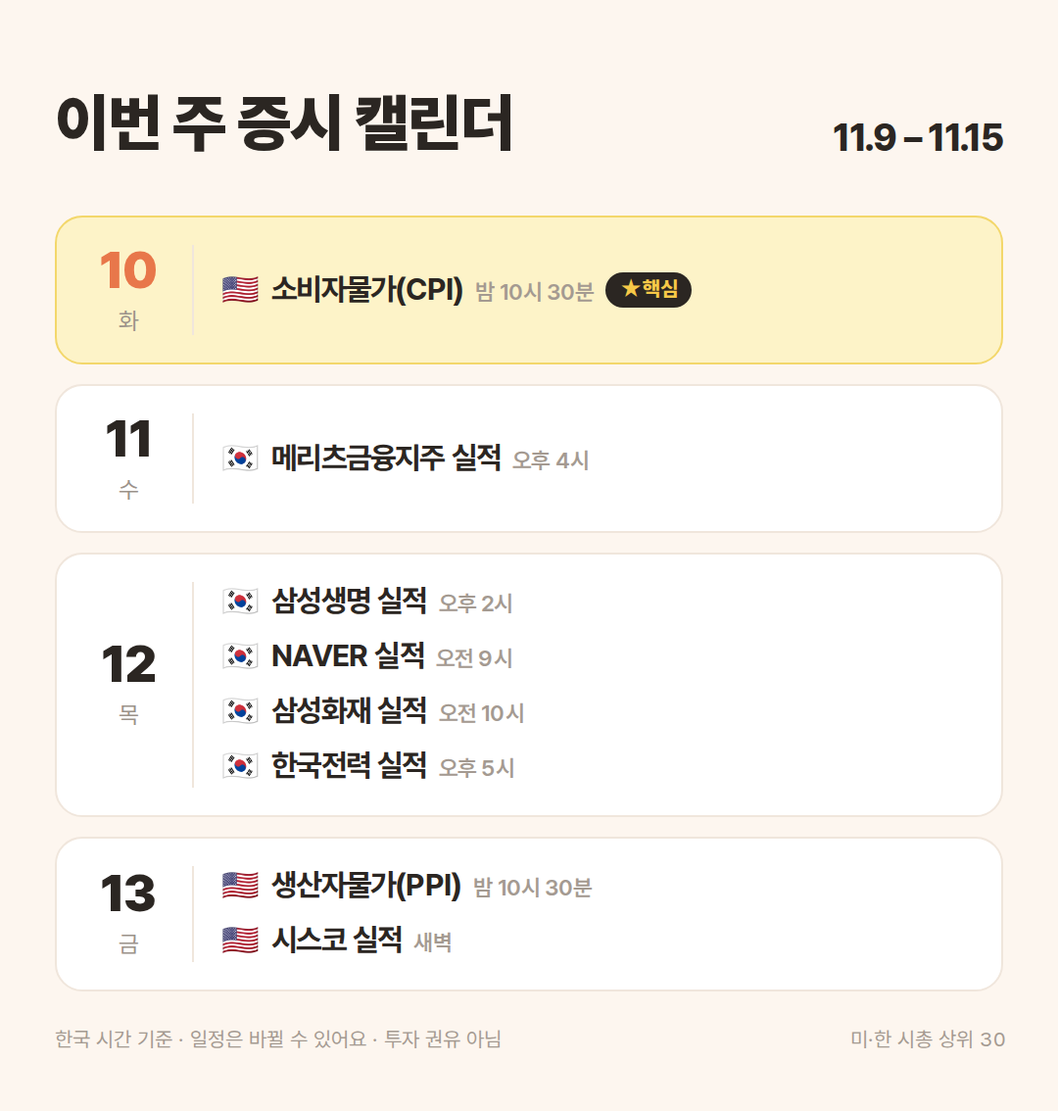
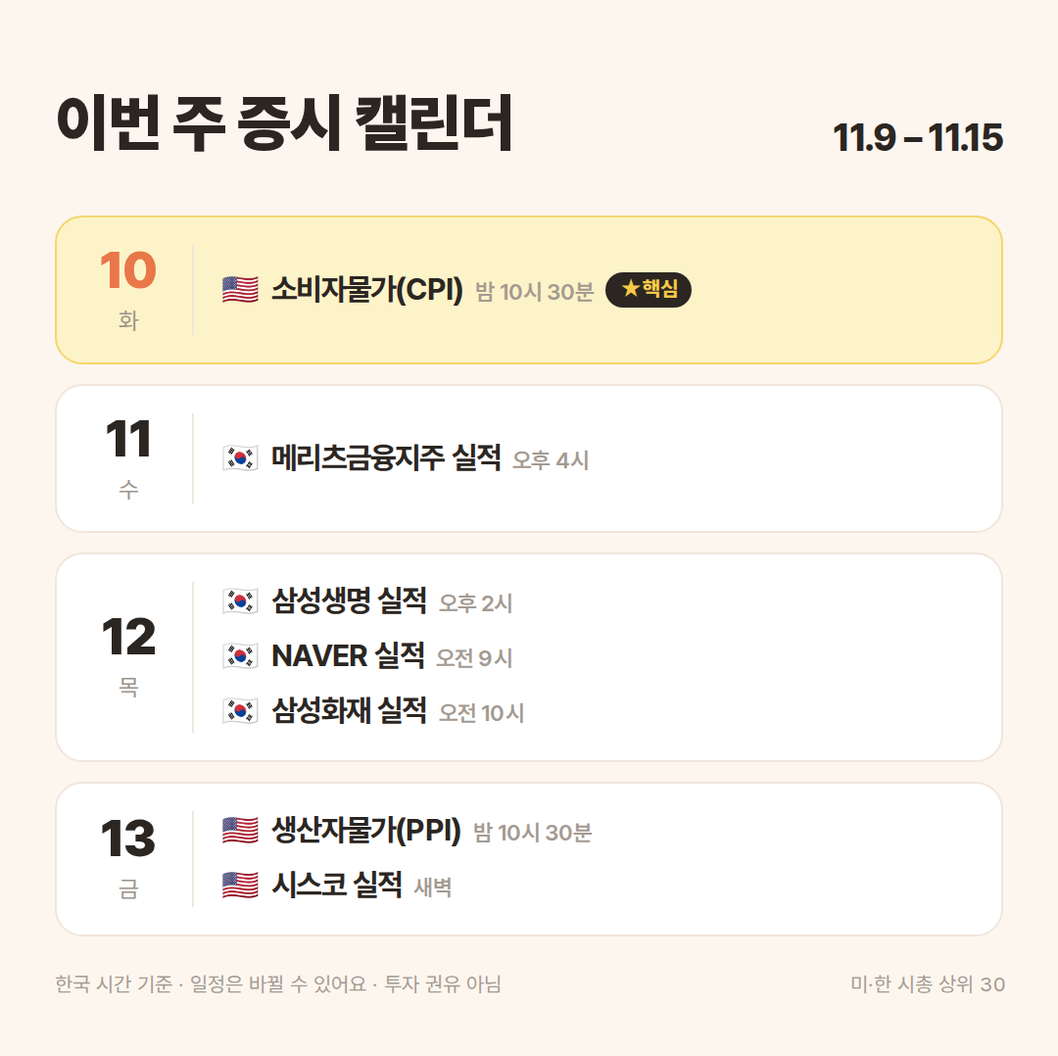
캘린더 갱신 2026-11-13

diff --git a/docs/2026-11-09/index.html b/docs/2026-11-09/index.html
@@ -46,16 +46,16 @@ tr.out{color:var(--sub)}
 </style></head><body>
 <div id="card">
 <div class="head"><h1>이번 주 증시 캘린더</h1><div class="range">11.9 – 11.15</div></div>
-<a class="card hot" href="#d2026-11-10"><div class="day"><div class="dn">10</div><div class="dw">화</div></div><div class="evs"><div class="ev"><span class="flag">🇺🇸</span><span class="ti">소비자물가(CPI)</span><span class="t">밤 10시 30분</span><span class="badge">★ 핵심</span></div></div></a><a class="card" href="#d2026-11-11"><div class="day"><div class="dn">11</div><div class="dw">수</div></div><div class="evs"><div class="ev"><span class="flag">🇰🇷</span><span class="ti">메리츠금융지주 실적</span><span class="t">오후 4시</span></div></div></a><a class="card" href="#d2026-11-12"><div class="day"><div class="dn">12</div><div class="dw">목</div></div><div class="evs"><div class="ev"><span class="flag">🇰🇷</span><span class="ti">삼성생명 실적</span><span class="t">오후 2시</span></div><div class="ev"><span class="flag">🇰🇷</span><span class="ti">NAVER 실적</span><span class="t">오전 9시</span></div><div class="ev"><span class="flag">🇰🇷</span><span class="ti">삼성화재 실적</span><span class="t">오전 10시</span></div><div class="ev"><span class="flag">🇰🇷</span><span class="ti">한국전력 실적</span><span class="t">오후 5시</span></div></div></a><a class="card" href="#d2026-11-13"><div class="day"><div class="dn">13</div><div class="dw">금</div></div><div class="evs"><div class="ev"><span class="flag">🇺🇸</span><span class="ti">생산자물가(PPI)</span><span class="t">밤 10시 30분</span></div><div class="ev"><span class="flag">🇺🇸</span><span class="ti">시스코 실적</span><span class="t">새벽</span></div></div></a>
+<a class="card hot" href="#d2026-11-10"><div class="day"><div class="dn">10</div><div class="dw">화</div></div><div class="evs"><div class="ev"><span class="flag">🇺🇸</span><span class="ti">소비자물가(CPI)</span><span class="t">밤 10시 30분</span><span class="badge">★ 핵심</span></div></div></a><a class="card" href="#d2026-11-11"><div class="day"><div class="dn">11</div><div class="dw">수</div></div><div class="evs"><div class="ev"><span class="flag">🇰🇷</span><span class="ti">메리츠금융지주 실적</span><span class="t">오후 4시</span></div></div></a><a class="card" href="#d2026-11-12"><div class="day"><div class="dn">12</div><div class="dw">목</div></div><div class="evs"><div class="ev"><span class="flag">🇰🇷</span><span class="ti">삼성생명 실적</span><span class="t">오후 2시</span></div><div class="ev"><span class="flag">🇰🇷</span><span class="ti">NAVER 실적</span><span class="t">오전 9시</span></div><div class="ev"><span class="flag">🇰🇷</span><span class="ti">삼성화재 실적</span><span class="t">오전 10시</span></div></div></a><a class="card" href="#d2026-11-13"><div class="day"><div class="dn">13</div><div class="dw">금</div></div><div class="evs"><div class="ev"><span class="flag">🇺🇸</span><span class="ti">생산자물가(PPI)</span><span class="t">밤 10시 30분</span></div><div class="ev"><span class="flag">🇺🇸</span><span class="ti">시스코 실적</span><span class="t">새벽</span></div></div></a>
 <div class="foot"><span>한국 시간 기준 · 일정은 바뀔 수 있어요 · 투자 권유 아님</span><span>미·한 시총 상위 30</span></div>
 </div>
 <main>
-<section id="d2026-11-10"><h2>11월 10일 (화)</h2><div class="row"><span class="flag">🇺🇸</span><div class="rb"><div class="rt">소비자물가(CPI) <span class="t">밤 10시 30분</span> <span class="badge">★ 핵심</span></div><div class="rd">미 동부 8:30 발표 · Consumer Price Index</div></div><a class="src" href="https://fred.stlouisfed.org/release?rid=10" target="_blank" rel="noopener">원문 ↗</a></div></section><section id="d2026-11-11"><h2>11월 11일 (수)</h2><div class="row"><span class="flag">🇰🇷</span><div class="rb"><div class="rt">메리츠금융지주 실적 <span class="t">오후 4시</span></div><div class="rd">2026년 3분기 경영실적 등 발표 · 웹캐스트 및 컨퍼런스콜을 통한 실적발표 및 질의응답</div><div class="res">✅ 결과 · 잠정실적 공시 · 연결재무제표기준영업(잠정)실적(공정공시)</div></div><a class="src" href="https://dart.fss.or.kr/dsaf001/main.do?rcpNo=20261022800519" target="_blank" rel="noopener">원문 ↗</a></div></section><section id="d2026-11-12"><h2>11월 12일 (목)</h2><div class="row"><span class="flag">🇰🇷</span><div class="rb"><div class="rt">삼성생명 실적 <span class="t">오후 2시</span></div><div class="rd">2026 회계연도 3분기 경영실적 발표 · 컨퍼런스 콜</div></div><a class="src" href="https://dart.fss.or.kr/dsaf001/main.do?rcpNo=20261028800567" target="_blank" rel="noopener">원문 ↗</a></div><div class="row"><span class="flag">🇰🇷</span><div class="rb"><div class="rt">NAVER 실적 <span class="t">오전 9시</span></div><div class="rd">2026년 3분기 실적발표 · 컨퍼런스콜(순차통역)</div></div><a class="src" href="https://dart.fss.or.kr/dsaf001/main.do?rcpNo=20261020800455" target="_blank" rel="noopener">원문 ↗</a></div><div class="row"><span class="flag">🇰🇷</span><div class="rb"><div class="rt">삼성화재 실적 <span class="t">오전 10시</span></div><div class="rd">2026 회계연도 3분기 경영실적 발표 · Conference Call</div></div><a class="src" href="https://dart.fss.or.kr/dsaf001/main.do?rcpNo=20261030801167" target="_blank" rel="noopener">원문 ↗</a></div><div class="row"><span class="flag">🇰🇷</span><div class="rb"><div class="rt">한국전력 실적 <span class="t">오후 5시</span></div><div class="rd">2026년 3분기 결산실적 발표 · Conference call, 영어 순차통역 병행</div></div><a class="src" href="https://dart.fss.or.kr/dsaf001/main.do?rcpNo=20261109800307" target="_blank" rel="noopener">원문 ↗</a></div></section><section id="d2026-11-13"><h2>11월 13일 (금)</h2><div class="row"><span class="flag">🇺🇸</span><div class="rb"><div class="rt">생산자물가(PPI) <span class="t">밤 10시 30분</span></div><div class="rd">미 동부 8:30 발표 · Producer Price Index</div></div><a class="src" href="https://fred.stlouisfed.org/release?rid=46" target="_blank" rel="noopener">원문 ↗</a></div><div class="row"><span class="flag">🇺🇸</span><div class="rb"><div class="rt">시스코 실적 <span class="t">새벽</span></div><div class="rd">미국 장 마감 후 · EPS 예상 $1.35 · 매출 예상 $18.5B</div></div><a class="src" href="https://www.nasdaq.com/market-activity/stocks/csco/earnings" target="_blank" rel="noopener">원문 ↗</a></div></section>
+<section id="d2026-11-10"><h2>11월 10일 (화)</h2><div class="row"><span class="flag">🇺🇸</span><div class="rb"><div class="rt">소비자물가(CPI) <span class="t">밤 10시 30분</span> <span class="badge">★ 핵심</span></div><div class="rd">미 동부 8:30 발표 · Consumer Price Index</div></div><a class="src" href="https://fred.stlouisfed.org/release?rid=10" target="_blank" rel="noopener">원문 ↗</a></div></section><section id="d2026-11-11"><h2>11월 11일 (수)</h2><div class="row"><span class="flag">🇰🇷</span><div class="rb"><div class="rt">메리츠금융지주 실적 <span class="t">오후 4시</span></div><div class="rd">2026년 3분기 경영실적 등 발표 · 웹캐스트 및 컨퍼런스콜을 통한 실적발표 및 질의응답</div><div class="res">✅ 결과 · 잠정실적 공시 · 연결재무제표기준영업(잠정)실적(공정공시)</div></div><a class="src" href="https://dart.fss.or.kr/dsaf001/main.do?rcpNo=20261022800519" target="_blank" rel="noopener">원문 ↗</a></div></section><section id="d2026-11-12"><h2>11월 12일 (목)</h2><div class="row"><span class="flag">🇰🇷</span><div class="rb"><div class="rt">삼성생명 실적 <span class="t">오후 2시</span></div><div class="rd">2026 회계연도 3분기 경영실적 발표 · 컨퍼런스 콜</div></div><a class="src" href="https://dart.fss.or.kr/dsaf001/main.do?rcpNo=20261028800567" target="_blank" rel="noopener">원문 ↗</a></div><div class="row"><span class="flag">🇰🇷</span><div class="rb"><div class="rt">NAVER 실적 <span class="t">오전 9시</span></div><div class="rd">2026년 3분기 실적발표 · 컨퍼런스콜(순차통역)</div></div><a class="src" href="https://dart.fss.or.kr/dsaf001/main.do?rcpNo=20261020800455" target="_blank" rel="noopener">원문 ↗</a></div><div class="row"><span class="flag">🇰🇷</span><div class="rb"><div class="rt">삼성화재 실적 <span class="t">오전 10시</span></div><div class="rd">2026 회계연도 3분기 경영실적 발표 · Conference Call</div></div><a class="src" href="https://dart.fss.or.kr/dsaf001/main.do?rcpNo=20261030801167" target="_blank" rel="noopener">원문 ↗</a></div></section><section id="d2026-11-13"><h2>11월 13일 (금)</h2><div class="row"><span class="flag">🇺🇸</span><div class="rb"><div class="rt">생산자물가(PPI) <span class="t">밤 10시 30분</span></div><div class="rd">미 동부 8:30 발표 · Producer Price Index</div></div><a class="src" href="https://fred.stlouisfed.org/release?rid=46" target="_blank" rel="noopener">원문 ↗</a></div><div class="row"><span class="flag">🇺🇸</span><div class="rb"><div class="rt">시스코 실적 <span class="t">새벽</span></div><div class="rd">미국 장 마감 후 · EPS 예상 $1.35 · 매출 예상 $18.5B</div></div><a class="src" href="https://www.nasdaq.com/market-activity/stocks/csco/earnings" target="_blank" rel="noopener">원문 ↗</a></div></section>
 <h3>백데이터</h3>
-<details><summary>수집 현황</summary><div class="tw"><table><tr><th>소스</th><th>상태</th><th>건수</th><th>오류</th></tr><tr><td>미국 시총 순위 (Finnhub)</td><td>✅</td><td>63</td><td class="err"></td></tr><tr><td>한국 시총 순위 (네이버)</td><td>✅</td><td>30</td><td class="err"></td></tr><tr><td>미국 실적 (Finnhub)</td><td>✅</td><td>2</td><td class="err"></td></tr><tr><td>한국 실적 (DART)</td><td>✅</td><td>5</td><td class="err"></td></tr><tr><td>미국 경제지표 (FRED)</td><td>✅</td><td>2</td><td class="err"></td></tr><tr><td>한국 수출입 (규칙)</td><td>✅</td><td>0</td><td class="err"></td></tr><tr><td>고정 일정 (events.json)</td><td>✅</td><td>0</td><td class="err"></td></tr></table></div></details>
-<details><summary>기준에서 빠진 실적 일정 (1건)</summary><div class="tw"><table><tr><th>날짜</th><th>일정</th><th>이유</th></tr><tr><td>11-13</td><td>어플라이드머티어리얼즈 실적</td><td>미국 시총 34위</td></tr></table></div></details>
-<details><summary>미국 시총 순위 (후보 63개 중 상위 30)</summary><div class="tw"><table><tr><th>#</th><th>종목</th><th>티커</th><th>시총</th></tr><tr class="in"><td>1</td><td>애플</td><td>AAPL</td><td>$5,168B</td></tr><tr class="in"><td>2</td><td>엔비디아</td><td>NVDA</td><td>$4,187B</td></tr><tr class="in"><td>3</td><td>마이크로소프트</td><td>MSFT</td><td>$3,870B</td></tr><tr class="in"><td>4</td><td>알파벳</td><td>GOOGL</td><td>$3,608B</td></tr><tr class="in"><td>5</td><td>아마존</td><td>AMZN</td><td>$2,878B</td></tr><tr class="in"><td>6</td><td>TSMC</td><td>TSM</td><td>$2,144B</td></tr><tr class="in"><td>7</td><td>브로드컴</td><td>AVGO</td><td>$1,648B</td></tr><tr class="in"><td>8</td><td>메타</td><td>META</td><td>$1,607B</td></tr><tr class="in"><td>9</td><td>테슬라</td><td>TSLA</td><td>$1,501B</td></tr><tr class="in"><td>10</td><td>일라이릴리</td><td>LLY</td><td>$1,352B</td></tr><tr class="in"><td>11</td><td>버크셔해서웨이</td><td>BRK.B</td><td>$1,262B</td></tr><tr class="in"><td>12</td><td>월마트</td><td>WMT</td><td>$980B</td></tr><tr class="in"><td>13</td><td>마이크론</td><td>MU</td><td>$918B</td></tr><tr class="in"><td>14</td><td>JP모건</td><td>JPM</td><td>$912B</td></tr><tr class="in"><td>15</td><td>AMD</td><td>AMD</td><td>$907B</td></tr><tr class="in"><td>16</td><td>비자</td><td>V</td><td>$769B</td></tr><tr class="in"><td>17</td><td>엑슨모빌</td><td>XOM</td><td>$764B</td></tr><tr class="in"><td>18</td><td>존슨앤드존슨</td><td>JNJ</td><td>$675B</td></tr><tr class="in"><td>19</td><td>ASML</td><td>ASML</td><td>$596B</td></tr><tr class="in"><td>20</td><td>마스터카드</td><td>MA</td><td>$576B</td></tr><tr class="in"><td>21</td><td>애브비</td><td>ABBV</td><td>$521B</td></tr><tr class="in"><td>22</td><td>코스트코</td><td>COST</td><td>$482B</td></tr><tr class="in"><td>23</td><td>코카콜라</td><td>KO</td><td>$420B</td></tr><tr class="in"><td>24</td><td>셰브론</td><td>CVX</td><td>$419B</td></tr><tr class="in"><td>25</td><td>팔란티어</td><td>PLTR</td><td>$415B</td></tr><tr class="in"><td>26</td><td>시스코</td><td>CSCO</td><td>$397B</td></tr><tr class="in"><td>27</td><td>P&amp;G</td><td>PG</td><td>$389B</td></tr><tr class="in"><td>28</td><td>오라클</td><td>ORCL</td><td>$388B</td></tr><tr class="in"><td>29</td><td>유나이티드헬스</td><td>UNH</td><td>$365B</td></tr><tr class="in"><td>30</td><td>GE에어로스페이스</td><td>GE</td><td>$354B</td></tr><tr class="out"><td>31</td><td>홈디포</td><td>HD</td><td>$350B</td></tr><tr class="out"><td>32</td><td>뱅크오브아메리카</td><td>BAC</td><td>$350B</td></tr><tr class="out"><td>33</td><td>인텔</td><td>INTC</td><td>$332B</td></tr><tr class="out"><td>34</td><td>어플라이드머티어리얼즈</td><td>AMAT</td><td>$314B</td></tr><tr class="out"><td>35</td><td>필립모리스</td><td>PM</td><td>$306B</td></tr><tr class="out"><td>36</td><td>모건스탠리</td><td>MS</td><td>$298B</td></tr><tr class="out"><td>37</td><td>램리서치</td><td>LRCX</td><td>$295B</td></tr><tr class="out"><td>38</td><td>캐터필러</td><td>CAT</td><td>$275B</td></tr><tr class="out"><td>39</td><td>RTX</td><td>RTX</td><td>$272B</td></tr><tr class="out"><td>40</td><td>골드만삭스</td><td>GS</td><td>$267B</td></tr><tr class="out"><td>41</td><td>넷플릭스</td><td>NFLX</td><td>$265B</td></tr><tr class="out"><td>42</td><td>웰스파고</td><td>WFC</td><td>$250B</td></tr><tr class="out"><td>43</td><td>아리스타</td><td>ANET</td><td>$248B</td></tr><tr class="out"><td>44</td><td>린데</td><td>LIN</td><td>$242B</td></tr><tr class="out"><td>45</td><td>IBM</td><td>IBM</td><td>$235B</td></tr><tr class="out"><td>46</td><td>아메리칸익스프레스</td><td>AXP</td><td>$217B</td></tr><tr class="out"><td>47</td><td>KLA</td><td>KLAC</td><td>$210B</td></tr><tr class="out"><td>48</td><td>디즈니</td><td>DIS</td><td>$207B</td></tr><tr class="out"><td>49</td><td>펩시코</td><td>PEP</td><td>$196B</td></tr><tr class="out"><td>50</td><td>맥도날드</td><td>MCD</td><td>$194B</td></tr><tr class="out"><td>51</td><td>애보트</td><td>ABT</td><td>$189B</td></tr><tr class="out"><td>52</td><td>퀄컴</td><td>QCOM</td><td>$189B</td></tr><tr class="out"><td>53</td><td>T모바일</td><td>TMUS</td><td>$182B</td></tr><tr class="out"><td>54</td><td>세일즈포스</td><td>CRM</td><td>$179B</td></tr><tr class="out"><td>55</td><td>찰스슈왑</td><td>SCHW</td><td>$160B</td></tr><tr class="out"><td>56</td><td>인튜이티브서지컬</td><td>ISRG</td><td>$156B</td></tr><tr class="out"><td>57</td><td>블랙스톤</td><td>BX</td><td>$151B</td></tr><tr class="out"><td>58</td><td>AT&amp;T</td><td>T</td><td>$150B</td></tr><tr class="out"><td>59</td><td>우버</td><td>UBER</td><td>$136B</td></tr><tr class="out"><td>60</td><td>앱러빈</td><td>APP</td><td>$134B</td></tr><tr class="out"><td>61</td><td>부킹홀딩스</td><td>BKNG</td><td>$119B</td></tr><tr class="out"><td>62</td><td>서비스나우</td><td>NOW</td><td>$107B</td></tr><tr class="out"><td>63</td><td>인튜이트</td><td>INTU</td><td>$92B</td></tr></table></div></details>
-<details><summary>한국 시총 상위 30 (보통주)</summary><div class="tw"><table><tr><th>#</th><th>종목</th><th>시장</th><th>시총</th></tr><tr class="in"><td>1</td><td>삼성전자</td><td>KOSPI</td><td>1,245.3조</td></tr><tr class="in"><td>2</td><td>SK하이닉스</td><td>KOSPI</td><td>954.0조</td></tr><tr class="in"><td>3</td><td>SK스퀘어</td><td>KOSPI</td><td>106.7조</td></tr><tr class="in"><td>4</td><td>LG에너지솔루션</td><td>KOSPI</td><td>78.0조</td></tr><tr class="in"><td>5</td><td>삼성전기</td><td>KOSPI</td><td>70.1조</td></tr><tr class="in"><td>6</td><td>삼성바이오로직스</td><td>KOSPI</td><td>65.7조</td></tr><tr class="in"><td>7</td><td>현대차</td><td>KOSPI</td><td>54.8조</td></tr><tr class="in"><td>8</td><td>KB금융</td><td>KOSPI</td><td>53.9조</td></tr><tr class="in"><td>9</td><td>삼성생명</td><td>KOSPI</td><td>51.6조</td></tr><tr class="in"><td>10</td><td>셀트리온</td><td>KOSPI</td><td>48.0조</td></tr><tr class="in"><td>11</td><td>삼성물산</td><td>KOSPI</td><td>47.3조</td></tr><tr class="in"><td>12</td><td>신한지주</td><td>KOSPI</td><td>40.0조</td></tr><tr class="in"><td>13</td><td>삼성SDI</td><td>KOSPI</td><td>39.0조</td></tr><tr class="in"><td>14</td><td>SK</td><td>KOSPI</td><td>37.0조</td></tr><tr class="in"><td>15</td><td>기아</td><td>KOSPI</td><td>36.4조</td></tr><tr class="in"><td>16</td><td>한화에어로스페이스</td><td>KOSPI</td><td>34.4조</td></tr><tr class="in"><td>17</td><td>하나금융지주</td><td>KOSPI</td><td>32.3조</td></tr><tr class="in"><td>18</td><td>현대모비스</td><td>KOSPI</td><td>31.8조</td></tr><tr class="in"><td>19</td><td>두산에너빌리티</td><td>KOSPI</td><td>30.6조</td></tr><tr class="in"><td>20</td><td>HD현대중공업</td><td>KOSPI</td><td>28.5조</td></tr><tr class="in"><td>21</td><td>NAVER</td><td>KOSPI</td><td>27.9조</td></tr><tr class="in"><td>22</td><td>삼성화재</td><td>KOSPI</td><td>24.0조</td></tr><tr class="in"><td>23</td><td>우리금융지주</td><td>KOSPI</td><td>23.3조</td></tr><tr class="in"><td>24</td><td>LG전자</td><td>KOSPI</td><td>22.8조</td></tr><tr class="in"><td>25</td><td>POSCO홀딩스</td><td>KOSPI</td><td>21.9조</td></tr><tr class="in"><td>26</td><td>한국전력</td><td>KOSPI</td><td>19.6조</td></tr><tr class="in"><td>27</td><td>LS ELECTRIC</td><td>KOSPI</td><td>19.2조</td></tr><tr class="in"><td>28</td><td>HMM</td><td>KOSPI</td><td>18.8조</td></tr><tr class="in"><td>29</td><td>고려아연</td><td>KOSPI</td><td>18.6조</td></tr><tr class="in"><td>30</td><td>메리츠금융지주</td><td>KOSPI</td><td>18.6조</td></tr></table></div></details>
-<div class="meta"><span>업데이트 2026-11-12 11:44 KST</span><span><a href="data.json">data.json</a> · <a href="../">지난 캘린더</a></span></div>
+<details><summary>수집 현황</summary><div class="tw"><table><tr><th>소스</th><th>상태</th><th>건수</th><th>오류</th></tr><tr><td>미국 시총 순위 (Finnhub)</td><td>✅</td><td>63</td><td class="err"></td></tr><tr><td>한국 시총 순위 (네이버)</td><td>✅</td><td>30</td><td class="err"></td></tr><tr><td>미국 실적 (Finnhub)</td><td>✅</td><td>2</td><td class="err"></td></tr><tr><td>한국 실적 (DART)</td><td>✅</td><td>4</td><td class="err"></td></tr><tr><td>미국 경제지표 (FRED)</td><td>✅</td><td>2</td><td class="err"></td></tr><tr><td>한국 수출입 (규칙)</td><td>✅</td><td>0</td><td class="err"></td></tr><tr><td>고정 일정 (events.json)</td><td>✅</td><td>0</td><td class="err"></td></tr></table></div></details>
+<details><summary>기준에서 빠진 실적 일정 (1건)</summary><div class="tw"><table><tr><th>날짜</th><th>일정</th><th>이유</th></tr><tr><td>11-13</td><td>어플라이드머티어리얼즈 실적</td><td>미국 시총 35위</td></tr></table></div></details>
+<details><summary>미국 시총 순위 (후보 63개 중 상위 30)</summary><div class="tw"><table><tr><th>#</th><th>종목</th><th>티커</th><th>시총</th></tr><tr class="in"><td>1</td><td>애플</td><td>AAPL</td><td>$5,157B</td></tr><tr class="in"><td>2</td><td>엔비디아</td><td>NVDA</td><td>$4,005B</td></tr><tr class="in"><td>3</td><td>마이크로소프트</td><td>MSFT</td><td>$3,884B</td></tr><tr class="in"><td>4</td><td>알파벳</td><td>GOOGL</td><td>$3,672B</td></tr><tr class="in"><td>5</td><td>아마존</td><td>AMZN</td><td>$2,892B</td></tr><tr class="in"><td>6</td><td>TSMC</td><td>TSM</td><td>$2,103B</td></tr><tr class="in"><td>7</td><td>브로드컴</td><td>AVGO</td><td>$1,739B</td></tr><tr class="in"><td>8</td><td>메타</td><td>META</td><td>$1,594B</td></tr><tr class="in"><td>9</td><td>테슬라</td><td>TSLA</td><td>$1,501B</td></tr><tr class="in"><td>10</td><td>일라이릴리</td><td>LLY</td><td>$1,343B</td></tr><tr class="in"><td>11</td><td>버크셔해서웨이</td><td>BRK.B</td><td>$1,262B</td></tr><tr class="in"><td>12</td><td>월마트</td><td>WMT</td><td>$980B</td></tr><tr class="in"><td>13</td><td>AMD</td><td>AMD</td><td>$960B</td></tr><tr class="in"><td>14</td><td>JP모건</td><td>JPM</td><td>$910B</td></tr><tr class="in"><td>15</td><td>마이크론</td><td>MU</td><td>$903B</td></tr><tr class="in"><td>16</td><td>비자</td><td>V</td><td>$769B</td></tr><tr class="in"><td>17</td><td>엑슨모빌</td><td>XOM</td><td>$764B</td></tr><tr class="in"><td>18</td><td>존슨앤드존슨</td><td>JNJ</td><td>$682B</td></tr><tr class="in"><td>19</td><td>ASML</td><td>ASML</td><td>$581B</td></tr><tr class="in"><td>20</td><td>마스터카드</td><td>MA</td><td>$568B</td></tr><tr class="in"><td>21</td><td>애브비</td><td>ABBV</td><td>$520B</td></tr><tr class="in"><td>22</td><td>코스트코</td><td>COST</td><td>$484B</td></tr><tr class="in"><td>23</td><td>셰브론</td><td>CVX</td><td>$425B</td></tr><tr class="in"><td>24</td><td>코카콜라</td><td>KO</td><td>$419B</td></tr><tr class="in"><td>25</td><td>팔란티어</td><td>PLTR</td><td>$413B</td></tr><tr class="in"><td>26</td><td>시스코</td><td>CSCO</td><td>$402B</td></tr><tr class="in"><td>27</td><td>P&amp;G</td><td>PG</td><td>$390B</td></tr><tr class="in"><td>28</td><td>오라클</td><td>ORCL</td><td>$384B</td></tr><tr class="in"><td>29</td><td>유나이티드헬스</td><td>UNH</td><td>$365B</td></tr><tr class="in"><td>30</td><td>뱅크오브아메리카</td><td>BAC</td><td>$348B</td></tr><tr class="out"><td>31</td><td>홈디포</td><td>HD</td><td>$348B</td></tr><tr class="out"><td>32</td><td>GE에어로스페이스</td><td>GE</td><td>$342B</td></tr><tr class="out"><td>33</td><td>인텔</td><td>INTC</td><td>$325B</td></tr><tr class="out"><td>34</td><td>필립모리스</td><td>PM</td><td>$306B</td></tr><tr class="out"><td>35</td><td>어플라이드머티어리얼즈</td><td>AMAT</td><td>$302B</td></tr><tr class="out"><td>36</td><td>모건스탠리</td><td>MS</td><td>$296B</td></tr><tr class="out"><td>37</td><td>램리서치</td><td>LRCX</td><td>$292B</td></tr><tr class="out"><td>38</td><td>캐터필러</td><td>CAT</td><td>$277B</td></tr><tr class="out"><td>39</td><td>RTX</td><td>RTX</td><td>$268B</td></tr><tr class="out"><td>40</td><td>골드만삭스</td><td>GS</td><td>$264B</td></tr><tr class="out"><td>41</td><td>아리스타</td><td>ANET</td><td>$261B</td></tr><tr class="out"><td>42</td><td>넷플릭스</td><td>NFLX</td><td>$257B</td></tr><tr class="out"><td>43</td><td>웰스파고</td><td>WFC</td><td>$250B</td></tr><tr class="out"><td>44</td><td>린데</td><td>LIN</td><td>$240B</td></tr><tr class="out"><td>45</td><td>IBM</td><td>IBM</td><td>$231B</td></tr><tr class="out"><td>46</td><td>아메리칸익스프레스</td><td>AXP</td><td>$213B</td></tr><tr class="out"><td>47</td><td>KLA</td><td>KLAC</td><td>$205B</td></tr><tr class="out"><td>48</td><td>디즈니</td><td>DIS</td><td>$204B</td></tr><tr class="out"><td>49</td><td>펩시코</td><td>PEP</td><td>$194B</td></tr><tr class="out"><td>50</td><td>맥도날드</td><td>MCD</td><td>$193B</td></tr><tr class="out"><td>51</td><td>퀄컴</td><td>QCOM</td><td>$190B</td></tr><tr class="out"><td>52</td><td>애보트</td><td>ABT</td><td>$186B</td></tr><tr class="out"><td>53</td><td>T모바일</td><td>TMUS</td><td>$181B</td></tr><tr class="out"><td>54</td><td>세일즈포스</td><td>CRM</td><td>$179B</td></tr><tr class="out"><td>55</td><td>찰스슈왑</td><td>SCHW</td><td>$158B</td></tr><tr class="out"><td>56</td><td>인튜이티브서지컬</td><td>ISRG</td><td>$152B</td></tr><tr class="out"><td>57</td><td>AT&amp;T</td><td>T</td><td>$149B</td></tr><tr class="out"><td>58</td><td>블랙스톤</td><td>BX</td><td>$146B</td></tr><tr class="out"><td>59</td><td>우버</td><td>UBER</td><td>$136B</td></tr><tr class="out"><td>60</td><td>앱러빈</td><td>APP</td><td>$130B</td></tr><tr class="out"><td>61</td><td>부킹홀딩스</td><td>BKNG</td><td>$120B</td></tr><tr class="out"><td>62</td><td>서비스나우</td><td>NOW</td><td>$104B</td></tr><tr class="out"><td>63</td><td>인튜이트</td><td>INTU</td><td>$91B</td></tr></table></div></details>
+<details><summary>한국 시총 상위 30 (보통주)</summary><div class="tw"><table><tr><th>#</th><th>종목</th><th>시장</th><th>시총</th></tr><tr class="in"><td>1</td><td>삼성전자</td><td>KOSPI</td><td>1,239.4조</td></tr><tr class="in"><td>2</td><td>SK하이닉스</td><td>KOSPI</td><td>927.0조</td></tr><tr class="in"><td>3</td><td>SK스퀘어</td><td>KOSPI</td><td>102.2조</td></tr><tr class="in"><td>4</td><td>LG에너지솔루션</td><td>KOSPI</td><td>77.1조</td></tr><tr class="in"><td>5</td><td>삼성전기</td><td>KOSPI</td><td>66.6조</td></tr><tr class="in"><td>6</td><td>삼성바이오로직스</td><td>KOSPI</td><td>65.9조</td></tr><tr class="in"><td>7</td><td>KB금융</td><td>KOSPI</td><td>56.1조</td></tr><tr class="in"><td>8</td><td>현대차</td><td>KOSPI</td><td>56.1조</td></tr><tr class="in"><td>9</td><td>삼성생명</td><td>KOSPI</td><td>51.4조</td></tr><tr class="in"><td>10</td><td>셀트리온</td><td>KOSPI</td><td>49.5조</td></tr><tr class="in"><td>11</td><td>삼성물산</td><td>KOSPI</td><td>46.9조</td></tr><tr class="in"><td>12</td><td>신한지주</td><td>KOSPI</td><td>41.8조</td></tr><tr class="in"><td>13</td><td>삼성SDI</td><td>KOSPI</td><td>39.2조</td></tr><tr class="in"><td>14</td><td>SK</td><td>KOSPI</td><td>37.6조</td></tr><tr class="in"><td>15</td><td>기아</td><td>KOSPI</td><td>37.2조</td></tr><tr class="in"><td>16</td><td>하나금융지주</td><td>KOSPI</td><td>33.5조</td></tr><tr class="in"><td>17</td><td>한화에어로스페이스</td><td>KOSPI</td><td>33.3조</td></tr><tr class="in"><td>18</td><td>현대모비스</td><td>KOSPI</td><td>32.8조</td></tr><tr class="in"><td>19</td><td>두산에너빌리티</td><td>KOSPI</td><td>30.7조</td></tr><tr class="in"><td>20</td><td>HD현대중공업</td><td>KOSPI</td><td>29.2조</td></tr><tr class="in"><td>21</td><td>NAVER</td><td>KOSPI</td><td>27.6조</td></tr><tr class="in"><td>22</td><td>우리금융지주</td><td>KOSPI</td><td>23.9조</td></tr><tr class="in"><td>23</td><td>삼성화재</td><td>KOSPI</td><td>23.8조</td></tr><tr class="in"><td>24</td><td>LG전자</td><td>KOSPI</td><td>22.7조</td></tr><tr class="in"><td>25</td><td>POSCO홀딩스</td><td>KOSPI</td><td>22.1조</td></tr><tr class="in"><td>26</td><td>HMM</td><td>KOSPI</td><td>20.3조</td></tr><tr class="in"><td>27</td><td>메리츠금융지주</td><td>KOSPI</td><td>19.9조</td></tr><tr class="in"><td>28</td><td>LS ELECTRIC</td><td>KOSPI</td><td>19.0조</td></tr><tr class="in"><td>29</td><td>고려아연</td><td>KOSPI</td><td>18.9조</td></tr><tr class="in"><td>30</td><td>SK이노베이션</td><td>KOSPI</td><td>18.5조</td></tr></table></div></details>
+<div class="meta"><span>업데이트 2026-11-13 11:21 KST</span><span><a href="data.json">data.json</a> · <a href="../">지난 캘린더</a></span></div>
 </main>
 </body></html>

diff --git a/docs/index.html b/docs/index.html
@@ -3,4 +3,4 @@
 <link href="https://cdn.jsdelivr.net/gh/orioncactus/pretendard@v1.3.9/dist/web/static/pretendard.min.css" rel="stylesheet">
 <style>*{box-sizing:border-box;margin:0}body{background:#fdf6ef;color:#2b2622;font-family:Pretendard,-apple-system,sans-serif;max-width:720px;margin:0 auto;padding:40px 16px}
 h1{font-size:28px;font-weight:900;margin-bottom:20px}.w{display:flex;justify-content:space-between;background:#fff;border:1.5px solid #f0e6dc;border-radius:12px;padding:14px 16px;margin-bottom:8px;color:inherit;text-decoration:none}
-.w span{color:#a49a91;font-size:13px}</style></head><body><h1>주간 증시 캘린더</h1><a class="w" href="daily/"><b>📰 데일리 브리핑 모아보기</b><span>→</span></a><a class="w" href="2026-11-09/"><b>2026. 11.9 – 11.15</b><span>일정 8건</span></a><a class="w" href="2026-11-02/"><b>2026. 11.2 – 11.8</b><span>일정 8건</span></a><a class="w" href="2026-10-26/"><b>2026. 10.26 – 11.1</b><span>일정 26건</span></a><a class="w" href="2026-10-19/"><b>2026. 10.19 – 10.25</b><span>일정 10건</span></a></body></html>
+.w span{color:#a49a91;font-size:13px}</style></head><body><h1>주간 증시 캘린더</h1><a class="w" href="daily/"><b>📰 데일리 브리핑 모아보기</b><span>→</span></a><a class="w" href="2026-11-09/"><b>2026. 11.9 – 11.15</b><span>일정 7건</span></a><a class="w" href="2026-11-02/"><b>2026. 11.2 – 11.8</b><span>일정 8건</span></a><a class="w" href="2026-10-26/"><b>2026. 10.26 – 11.1</b><span>일정 26건</span></a><a class="w" href="2026-10-19/"><b>2026. 10.19 – 10.25</b><span>일정 10건</span></a></body></html>
